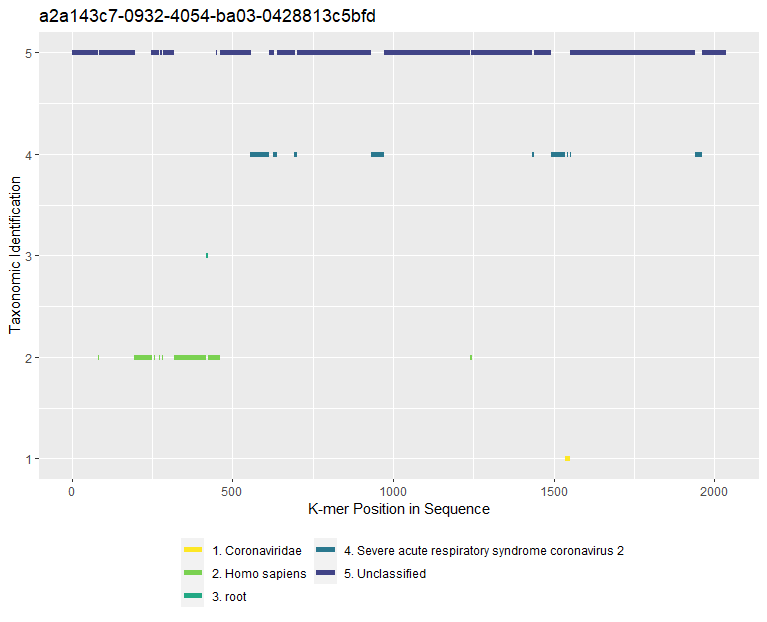
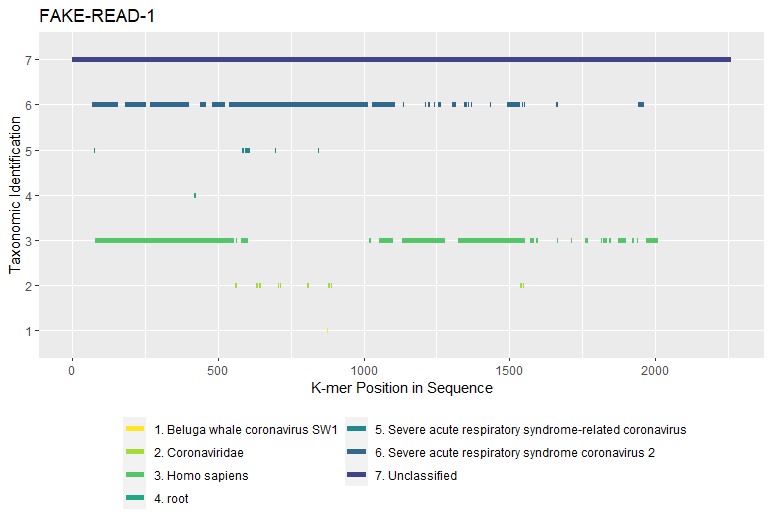
update readme images

diff --git a/README.md b/README.md
@@ -38,18 +38,23 @@ sbatch -p NMLResearch -c 1 --mem=4G --wrap="wget -O - https://raw.githubusercont
 ### Two Tables of Results
  * `<PREFIX>_perseq.csv` - Identified k-mer counts by taxonomy per read sequence
  
-|Status            |Sequence                             |TaxonomicName                                         | Count|
-|:-----------------|:------------------------------------|:-----------------------------------------------------|-----:|
-|RUN1-kraken.tsv:C |0ff47476-cf92-4d8e-84fc-d40a428abc74 |Unclassified                                          |  1068|
-|RUN1-kraken.tsv:C |0ff47476-cf92-4d8e-84fc-d40a428abc74 |Homo sapiens                                          |   352|
-|RUN1-kraken.tsv:C |0ff47476-cf92-4d8e-84fc-d40a428abc74 |Severe acute respiratory syndrome coronavirus 2       |   305|
-|RUN1-kraken.tsv:C |0ff47476-cf92-4d8e-84fc-d40a428abc74 |Severe acute respiratory syndrome-related coronavirus |     4|
-|RUN1-kraken.tsv:C |e65bf971-c5cf-4540-8b7f-0481f9c3ad0a |Unclassified                                          |  1219|
-|RUN1-kraken.tsv:C |e65bf971-c5cf-4540-8b7f-0481f9c3ad0a |Homo sapiens                                          |   246|
-|RUN1-kraken.tsv:C |e65bf971-c5cf-4540-8b7f-0481f9c3ad0a |Severe acute respiratory syndrome coronavirus 2       |   187|
-|RUN1-kraken.tsv:C |e65bf971-c5cf-4540-8b7f-0481f9c3ad0a |Coronaviridae                                         |     5|
-|RUN1-kraken.tsv:C |e65bf971-c5cf-4540-8b7f-0481f9c3ad0a |Severe acute respiratory syndrome-related coronavirus |     5|
-|RUN1-kraken.tsv:C |ebf5db73-da7e-40fd-8ab4-b6e0e1b47359 |Unclassified                                          |  1741|
+|Status            |Sequence    |TaxonomicName                                         | Count|
+|:-----------------|:-----------|:-----------------------------------------------------|-----:|
+|RUN1-kraken.tsv:C |FAKE-READ-1 |Unclassified                                          |  1741|
+|RUN1-kraken.tsv:C |FAKE-READ-1 |Homo sapiens                                          |   268|
+|RUN1-kraken.tsv:C |FAKE-READ-1 |Severe acute respiratory syndrome coronavirus 2       |   251|
+|RUN1-kraken.tsv:C |FAKE-READ-2 |Unclassified                                          |  1219|
+|RUN1-kraken.tsv:C |FAKE-READ-2 |Homo sapiens                                          |   246|
+|RUN1-kraken.tsv:C |FAKE-READ-2 |Severe acute respiratory syndrome coronavirus 2       |   187|
+|RUN1-kraken.tsv:C |FAKE-READ-2 |Coronaviridae                                         |     5|
+|RUN1-kraken.tsv:C |FAKE-READ-2 |Severe acute respiratory syndrome-related coronavirus |     5|
+|RUN1-kraken.tsv:C |FAKE-READ-3 |Unclassified                                          |  1068|
+|RUN1-kraken.tsv:C |FAKE-READ-3 |Homo sapiens                                          |   352|
+|RUN1-kraken.tsv:C |FAKE-READ-3 |Severe acute respiratory syndrome coronavirus 2       |   305|
+|RUN1-kraken.tsv:C |FAKE-READ-3 |Severe acute respiratory syndrome-related coronavirus |     4|
+|RUN2-kraken.tsv:C |FAKE-READ-4 |Unclassified                                          |  1108|
+|RUN2-kraken.tsv:C |FAKE-READ-4 |Homo sapiens                                          |   338|
+|RUN2-kraken.tsv:C |FAKE-READ-4 |Severe acute respiratory syndrome coronavirus 2       |   241|
 
  * `<PREFIX>_allseq.csv` - Identified k-mer counts by taxonomy for all
 
